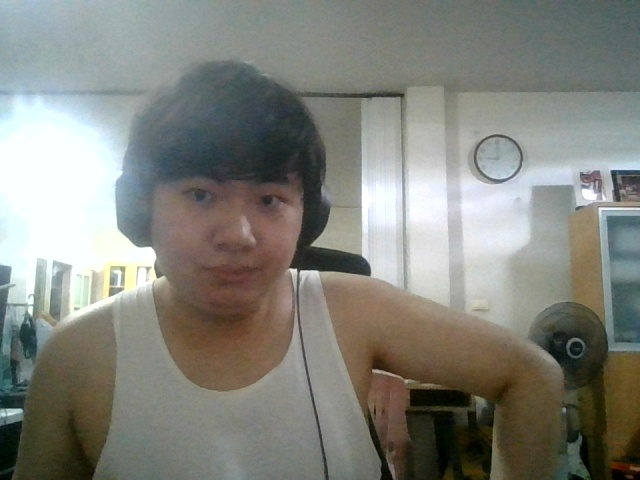
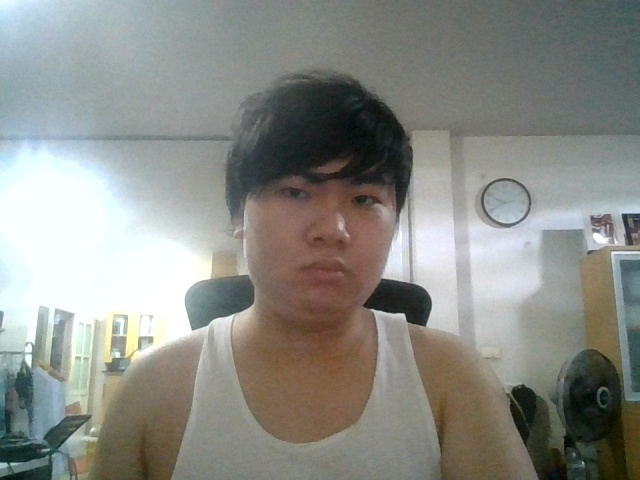
Add files via upload

diff --git a/Project_4th_year/cvtest.py b/Project_4th_year/cvtest.py
@@ -41,7 +41,7 @@ class Video(threading.Thread):
 		threading.Thread.__init__(self)
 		self.running = False
 		self.reading = False
-		self.vid = VideoCapture(0)
+		self.vid = VideoCapture(1)
 		self.img = cv2.imread('testimage0.jpg')
 		self.gray = get_grayscale(img)
 		self.thresh = thresholding(gray)
@@ -78,16 +78,16 @@ class Video(threading.Thread):
       
 			# Capture the video frame
 			# by frame
-			self.ret, self.frame = self.vid.read()
-			if self.ret == True:
+			ret, frame = self.vid.read()
+			if ret == True:
 				# Display the resulting frame
-				#cv2.imshow('frame', frame)
-				
+				cv2.imshow('frame', frame)
+				cv2.waitKey(1)
 				# the 'q' button is set as the
 				# quitting button you may use any
 				# desired button of your choice
-				self.save_frame = self.frame
-				time.sleep(0.1)
+				self.save_frame = frame
+				#time.sleep(0.1)
 			if self.reading == True:
 				self.search_send()
 				self.reading = False
@@ -465,7 +465,7 @@ class Video(threading.Thread):
 		print("start search and send")
 		cv2.imwrite('testimage0.jpg',self.save_frame)
 		self.img = np.array(self.img)
-		self.img = cv2.imread('testimage1.jpg')
+		self.img = cv2.imread('testimage0.jpg')
 		print("start to read image")
 		self.gray = get_grayscale(self.img)
 		print("got grayscale")

diff --git a/Project_4th_year/website/views.py b/Project_4th_year/website/views.py
@@ -3,17 +3,17 @@ from cvtest import Video
 
 views = Blueprint('views', __name__)
 capture = Video()
+capture.start()
 
 @views.route('/')
 def setting():
-    capture.start()
     return render_template("base.html")
 
 @views.route('/api/scan', methods=['GET'])
 def scan():
     #capture = video()
-    #capture.start()
     capture.read()
+    #capture.read()
     print("scan")
     return Response(response="success", status=200, mimetype="application/json")
 
